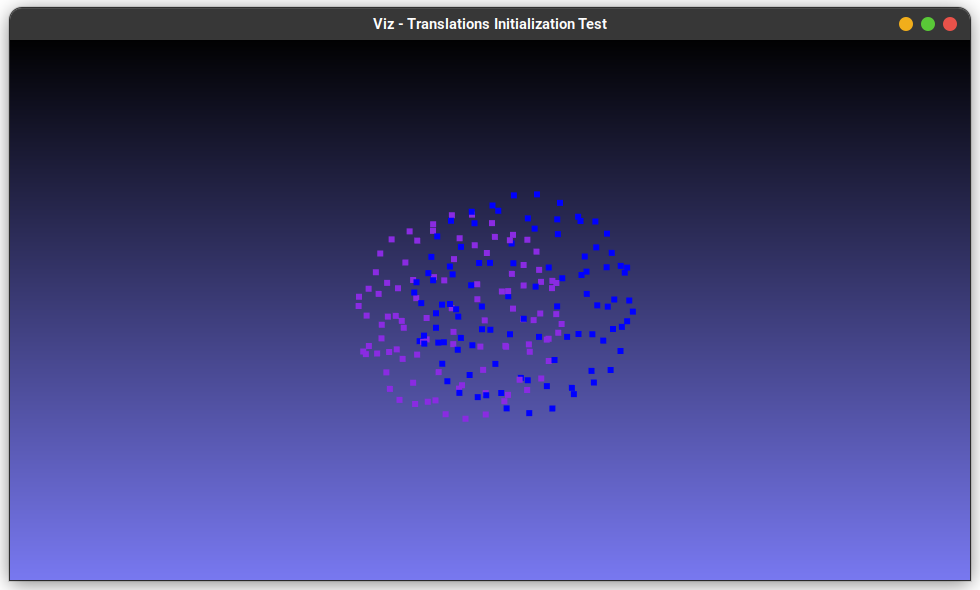
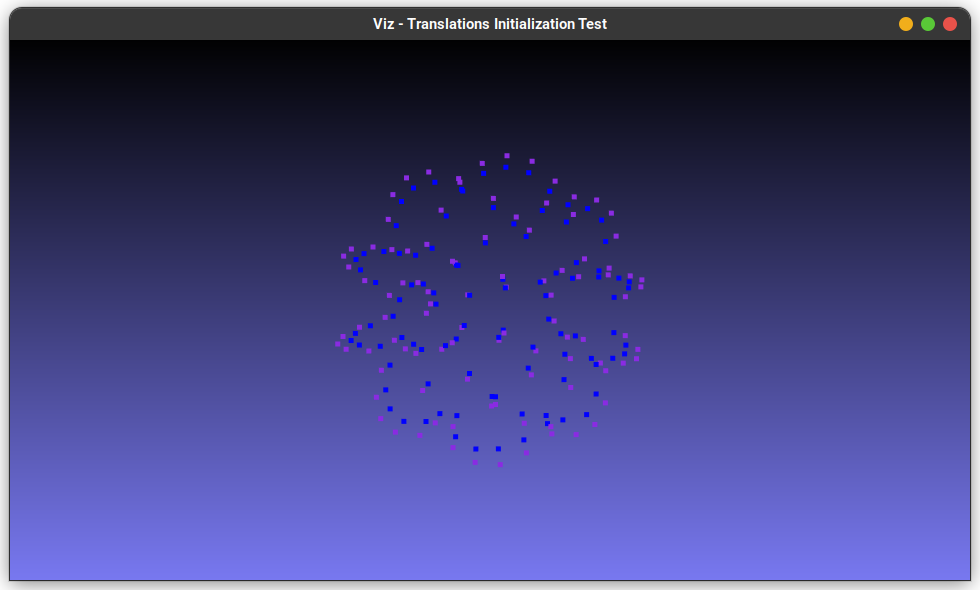
testing init translations using gt direction vectors; readme update

diff --git a/executables/test_init_translations.cpp b/executables/test_init_translations.cpp
@@ -44,9 +44,16 @@ int main (int argc, char** argv) {
     string gt_landmark_positions = argv[2]; // "./dataset_and_info/GT_landmarks.txt";
     map<int, pr::Vec3d> gt_landmarks = load_landmarks(gt_landmark_positions);
 
+    for(auto& cam: cameras) {
+        for(auto& kp: cam.keypoints) {
+            kp.direction_vector = v2tRPY(cam.orientation).transpose() * (gt_landmarks[kp.id] - cam.gt_position); // gt dir vector in camera frame
+            kp.direction_vector.normalize();
+        }
+    }
+
     init_translations(cameras);
     
-    cout << endl << "Doing ICP for camera positions..." << endl;
+    cout << endl << "Doing SICP for camera positions..." << endl;
     map<int, Vec3d> cam_positions;
     map<int, Vec3d> cam_gt_positions;
     for(const auto& cam: cameras) {

diff --git a/README.md b/README.md
@@ -89,15 +89,17 @@ In the *out* directory it's possible to find the output produced by the followin
   <img src="out/icp_test_terminal.png" width="70%"/>
 </div>
   
-- [X] triangulation (```build/executables/test_triangulation <Dataset Path> <GT Landmarks Path>```)
+- [ ] triangulation (```build/executables/test_triangulation <Dataset Path> <GT Landmarks Path>```) --> **ok BUT not robust to outliers**
 <div align="center"> <img src="out/triangulation_test_visualization.png" width="70%"/> </div>
 
-- [ ] calculate_relative_position (```build/executables/test_relative_pos <Dataset Path> <GT Landmarks Path>```)
+- [X] calculate_relative_position (```build/executables/test_relative_pos <Dataset Path> <GT Landmarks Path>```)
   - [X] eight_point_algorithm
   - [X] extract_t
 <div align="center"> <img src="out/relative_position_test_terminal.png" width="70%"/> </div>
 
-- [X] init_translations (```build/executables/test_init_t <Dataset Path> <GT Landmarks Path>```) --> **doesn't works using calculate_relative_position funciton**. For the moment i'm using the relative position calculated from GT positions. 
+- [X] init_translations (```build/executables/test_init_t <Dataset Path> <GT Landmarks Path>```) --> **doesn't works using noisy direction vectors (crucial for triangulation)**. For the moment i'm using the direction vectors calculated from GT positions. 
 <div align="center"> <img src="out/init_translations_test_visualization.png" width="70%"/> </div>
 
-- [ ] bundle_adjustment (```build/executables/test_BA <Dataset Path> <GT Landmarks Path>```)
+- [X] bundle_adjustment (```build/executables/test_BA <Dataset Path> <GT Landmarks Path>```)
+<div align="center"> <img src="out/BA_test_visualization.png" width="70%"/> </div>
+
